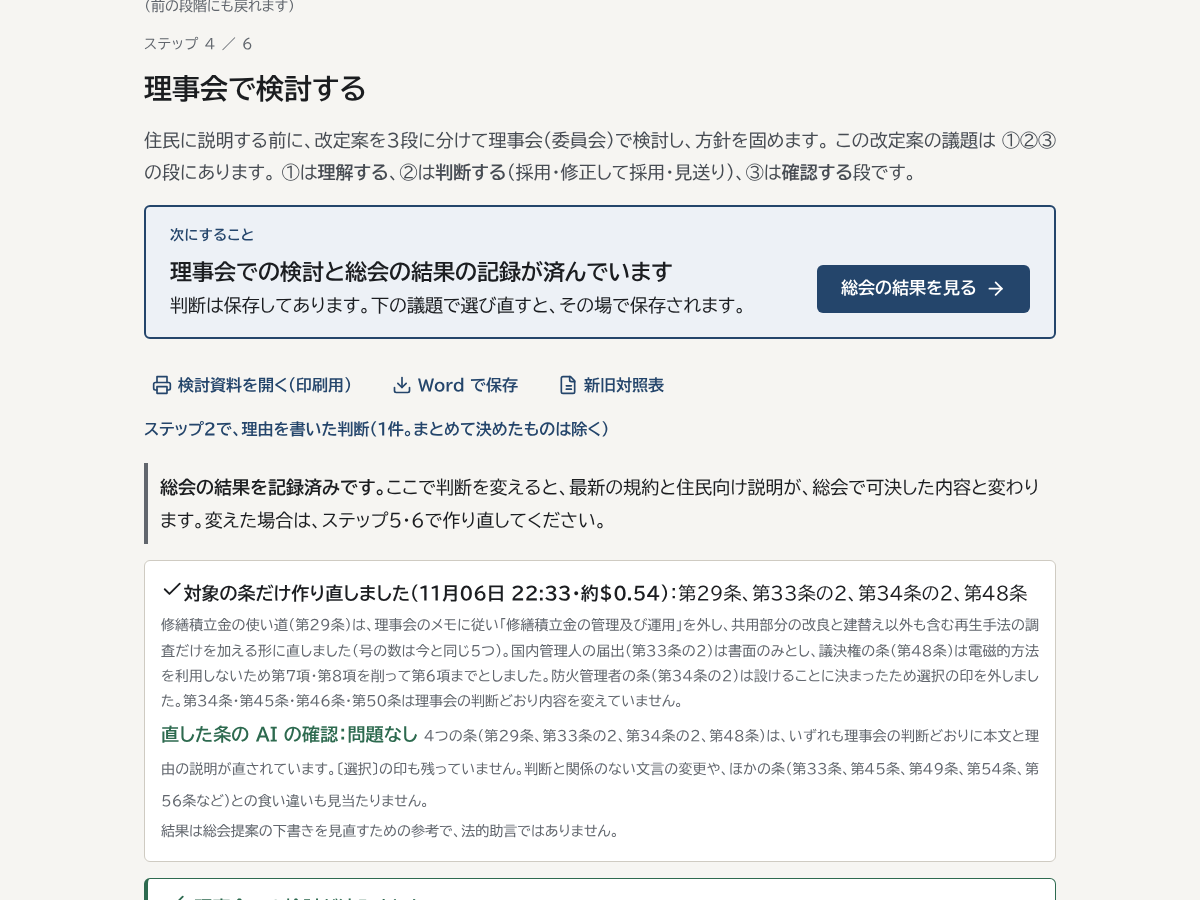
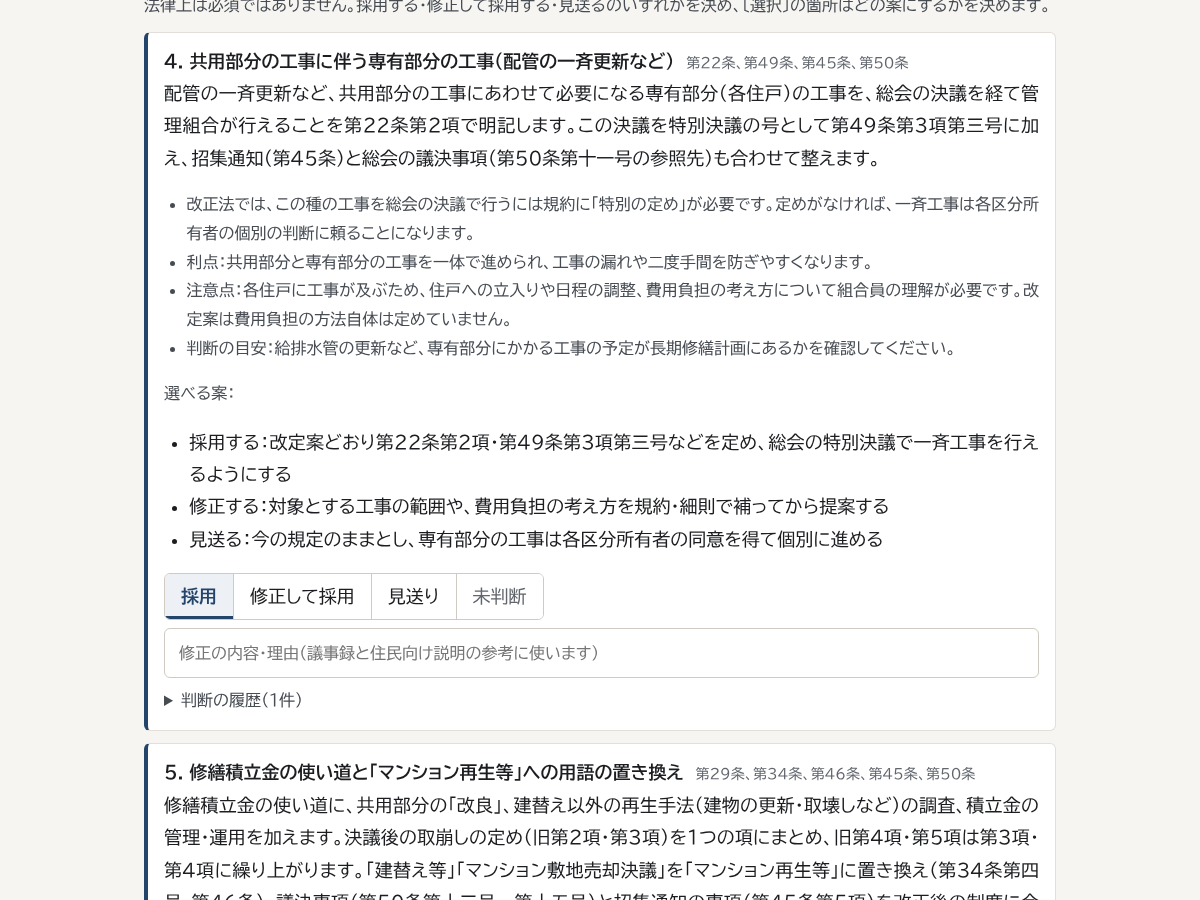
README の画面を撮り直す（残る課題⑤）：理事会で検討は、議題と判断のボタンが写る位置で。新旧対照表は「か条」の表記に
Claude-Session: https://claude.ai/code/session_01KMDftsrbgp6KUVXbedew97

Changed region(s): [[0.0925, 0.0, 0.8942, 1.0]]

diff --git a/docs/readme/make_shots.js b/docs/readme/make_shots.js
@@ -23,7 +23,7 @@ const OUT = __dirname + path.sep;
   };
   const W = `${BASE}/works/${WORK}`;
   await shot(W + '#findings', '01_findings.png', 'p.eyebrow.wk', 900);
-  await shot(W + '#board', '02_board.png', 'section[data-step="board"] .stepttl', 900);
+  await shot(W + '#board', '02_board.png', '.bitem:has(.bseg.n4)', 900);   // 議題と判断のボタン（採用・修正して採用・見送り）が写る位置
   await shot(W + '/taisho', '03_taisho.png', null, 760);
   if (process.env.CONSULT_ID) await shot(`${BASE}/consult/${process.env.CONSULT_ID}`, '04_consult.png', null, 900);
   await b.close();

diff --git a/README.md b/README.md
@@ -28,7 +28,7 @@
 - **相談する**：「規約変更の総会で何人の賛成が要る？」のような質問や、住民向けのニュース原稿・議事録の確認に、条文を読んだうえで根拠付きで答えます。定足数・賛成数はプログラムが計算し、人名は伏せて AI に送ります
 - 作者自身がマンションの規約見直し委員として、実物の規約で使いながら作りました（実物の規約はこのリポジトリに入れていません）
 
-**理事会で検討する**：改定案を3段に分けた検討資料と、議題ごとの判断。判断に合わせて、対象の条だけを作り直す
+**理事会で検討する**：改定案を3段に分けた検討資料と、議題ごとの判断（採用・修正して採用・見送りなどのボタン）。判断に合わせて、対象の条だけを作り直す
 
 ![理事会で検討する画面](docs/readme/02_board.png)
 
